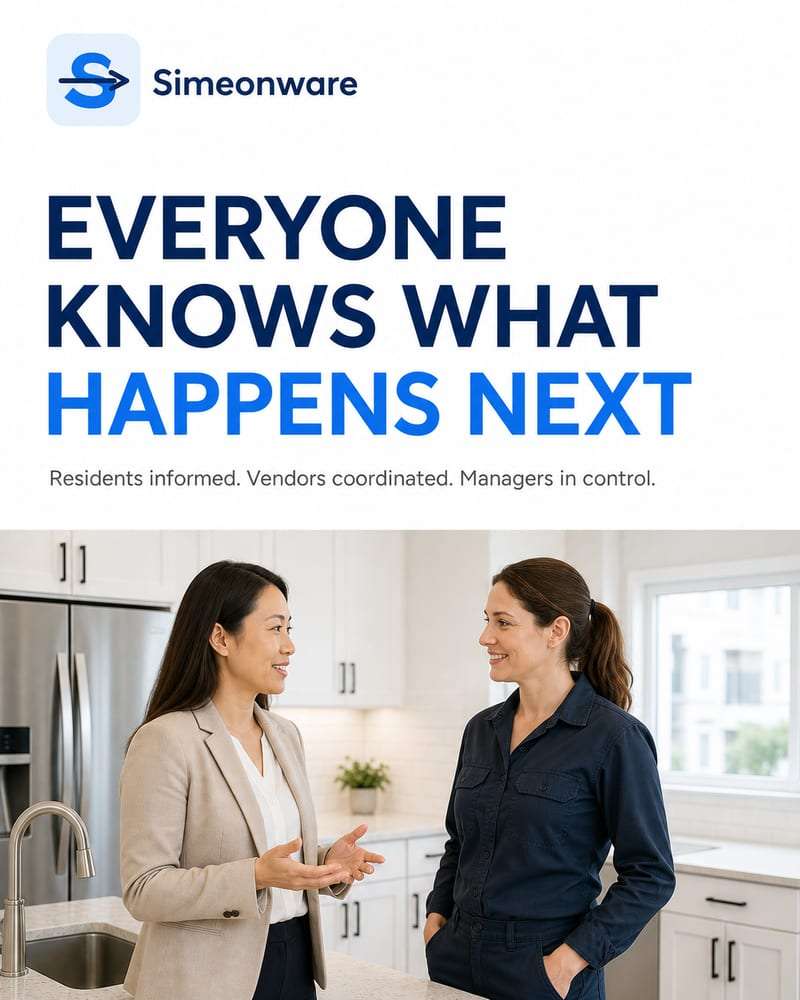
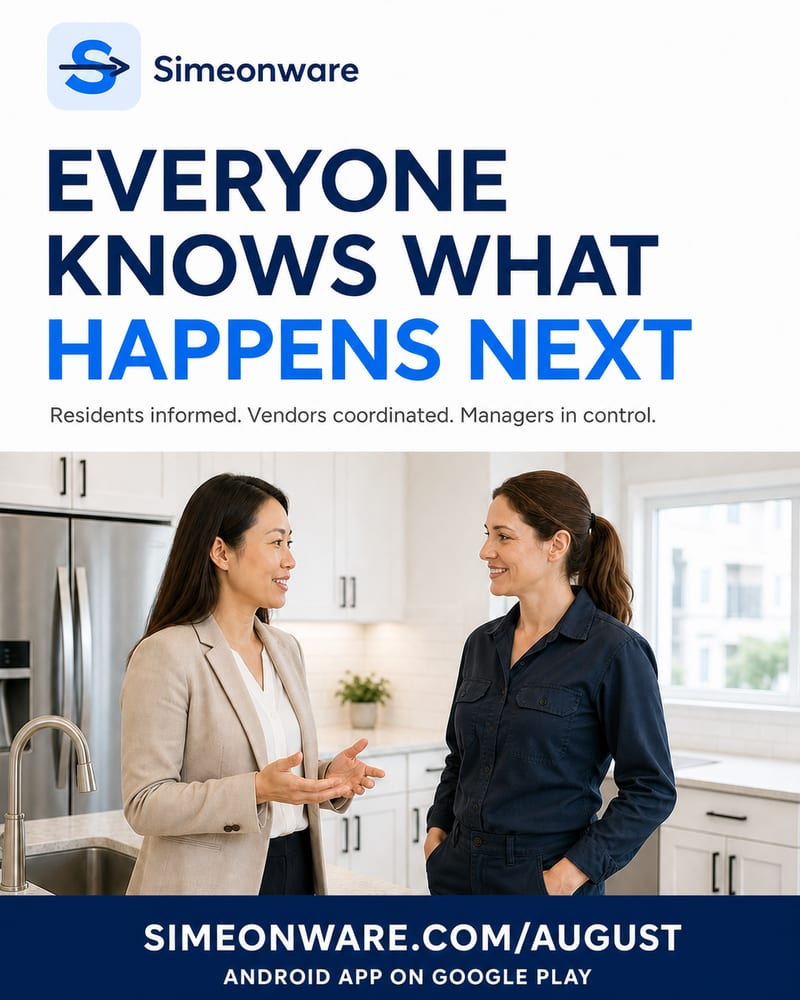
Add website and Google Play destinations to campaign

diff --git a/apps/web/tests/e2e/role-entry-points.spec.ts b/apps/web/tests/e2e/role-entry-points.spec.ts
@@ -5,6 +5,10 @@ test('August campaign leads with the demonstration and keeps founder support opt
 
   await expect(page.getByRole('heading', { level: 1, name: 'Property maintenance, beautifully managed.' })).toBeVisible()
   await expect(page.getByRole('link', { name: 'Watch the two-minute demonstration', exact: true })).toHaveAttribute('href', 'https://youtu.be/lNdIDpyV-dg')
+  await expect(page.getByRole('link', { name: 'Android app on Google Play' })).toHaveAttribute(
+    'href',
+    'https://play.google.com/store/apps/details?id=com.simeonberwick.propertymanager',
+  )
   await expect(page.getByRole('link', { name: 'Start a 30-day trial', exact: true }).first()).toHaveAttribute(
     'href',
     '/signup?utm_source=facebook&utm_medium=social&utm_campaign=august_founders',

diff --git a/apps/web/app/august/page.tsx b/apps/web/app/august/page.tsx
@@ -37,6 +37,7 @@ export default async function AugustCampaignPage({
             <span>No credit card required</span>
             <span>U.S. property businesses only</span>
             <span>No automatic paid conversion</span>
+            <span><a href="https://play.google.com/store/apps/details?id=com.simeonberwick.propertymanager">Android app on Google Play</a></span>
           </div>
           <p className="muted">Founder support is available for managers who want personal onboarding or need to discuss an integration. You can also start independently.</p>
         </div>

diff --git a/apps/web/app/globals.css b/apps/web/app/globals.css
@@ -1062,6 +1062,7 @@ body { min-height: 100vh; }
 .heroActions { display: flex; flex-wrap: wrap; gap: 12px; }
 .trustLine { display: flex; flex-wrap: wrap; gap: 10px 22px; color: var(--muted); font-size: 13px; font-weight: 650; }
 .trustLine span::before { content: "\2713"; margin-right: 7px; color: #16834b; font-weight: 900; }
+.trustLine a { color: inherit; text-decoration: underline; text-underline-offset: 3px; }
 .productWindow {
   overflow: hidden;
   border: 1px solid #cad9eb;

diff --git a/apps/web/app/page.tsx b/apps/web/app/page.tsx
@@ -42,6 +42,7 @@ export default async function HomePage() {
               <span>30-day trial for U.S. property businesses</span>
               <span>Tenant, staff, and vendor portals included</span>
               <span>CSV import and export ready</span>
+              <span><a href="https://play.google.com/store/apps/details?id=com.simeonberwick.propertymanager">Android app on Google Play</a></span>
             </div>
           )}
         </div>

diff --git a/docs/august-positive-outreach-kit.md b/docs/august-positive-outreach-kit.md
@@ -18,6 +18,12 @@ Keep the image linked to:
 
 `https://www.simeonware.com/august?utm_source=direct-outreach&utm_medium=email&utm_campaign=august_founders`
 
+Every message must also show these destinations as plain, clickable text:
+
+- Website: `https://www.simeonware.com`
+- Founding Manager Access: `https://www.simeonware.com/august`
+- Android app: `https://play.google.com/store/apps/details?id=com.simeonberwick.propertymanager`
+
 ## Initial email
 
 **Subject:** A clearer way to manage property maintenance
@@ -33,6 +39,12 @@ https://www.youtube.com/watch?v=lNdIDpyV-dg
 During August, property managers can run real maintenance through Simeonware for 30 days with assisted setup, direct founder support, and founding pricing protected for 12 months:
 
 https://www.simeonware.com/august?utm_source=direct-outreach&utm_medium=email&utm_campaign=august_founders&utm_content=initial
+
+Simeonware works on the web and through the Android app:
+
+Website: https://www.simeonware.com
+
+Google Play: https://play.google.com/store/apps/details?id=com.simeonberwick.propertymanager
 
 Best,
 
@@ -59,6 +71,12 @@ https://www.youtube.com/watch?v=lNdIDpyV-dg
 If the workflow looks useful, you can run your own maintenance through Simeonware for 30 days. No card is required, and a conversation with me is optional:
 
 https://www.simeonware.com/august?utm_source=direct-outreach&utm_medium=email&utm_campaign=august_founders&utm_content=follow_up
+
+Use Simeonware on the web or through the Android app:
+
+Website: https://www.simeonware.com
+
+Google Play: https://play.google.com/store/apps/details?id=com.simeonberwick.propertymanager
 
 Best,
 
